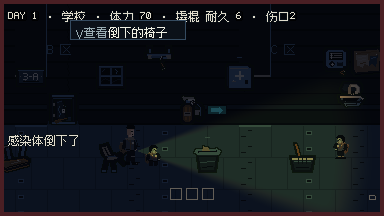
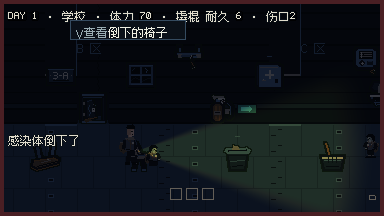
docs(handoff+mobile): 真机复验证据入仓（搜索条贴柜 / 按住 1.6s 出面板 / A 区不再被围）
- design/previews/DEVICE_search_bar.png：手机上「搜索中 62」贴在储物柜正上方
- design/previews/DEVICE_search_loot.png：按住到点 → 储物柜 / 找到打火机 / 已放入背包（1/10），全程体力 100
- MOBILE-REVIEW 增 §五 2026-11-28 复评：P0-1 已还、P0-2 已还一半（威胁线索仍缺）、P0-3 未动
- SESSION_HANDOFF §3 重写未决三条 + 新增 §3.5 记录本轮清掉的两条

diff --git a/design/MOBILE-REVIEW.md b/design/MOBILE-REVIEW.md
@@ -62,7 +62,20 @@
 
 ---
 
-## 五、复跑
+## 五、2026-11-28 复评：三条 P0 的现状
+
+> 设备换成 `EITSAEUCC6KN6PXS`（同 2772×1280 横屏 / 视口 555×256）。证据：`design/previews/DEVICE_search_bar.png`、`DEVICE_search_loot.png`。
+
+| 原 P0 | 现状 | 证据 |
+|---|---|---|
+| ① 长按搜索看不到进度 | **已修**：条贴在被搜物件正上方（不是屏幕角落），起手同一帧就出现；手机「搜」从 `tap` 改 `hold_key`，按住才推进 | 真机 62% 进度条 → 到点弹出「储物柜 / 找到：打火机 / 已放入背包（1/10）」 |
+| ② 战斗不可读 / 掉血像随机惩罚 | **一半**：敌人不再跨区围杀（每个感染体只守自己那段走廊）+ 受击 0.7s 无敌帧，「A 区搜柜子被两只 10 秒打死」不再发生（真机全程体力 100）。**仍缺**屏幕级威胁线索（边缘红晕/受击方向） | 真机两次全流程均在 A 区站着不动 30 秒以上，体力未掉 |
+| ③ 手机面板排版 | 未动（检查面板仍是 384 空间的大框） | — |
+
+**新发现（已记入 `SESSION_HANDOFF.md` §3）**：倒下后同一天内可被打到 0 体力而无后果（已修）、
+倒下瞬间感染体贴脸再打死（已修：回巢 + 4 秒脱战）。
+
+## 六、复跑
 
 ```powershell
 powershell -NoProfile -File tools\deploy_android.ps1 -Action all -ShotName run   # 装包+启动+截图
